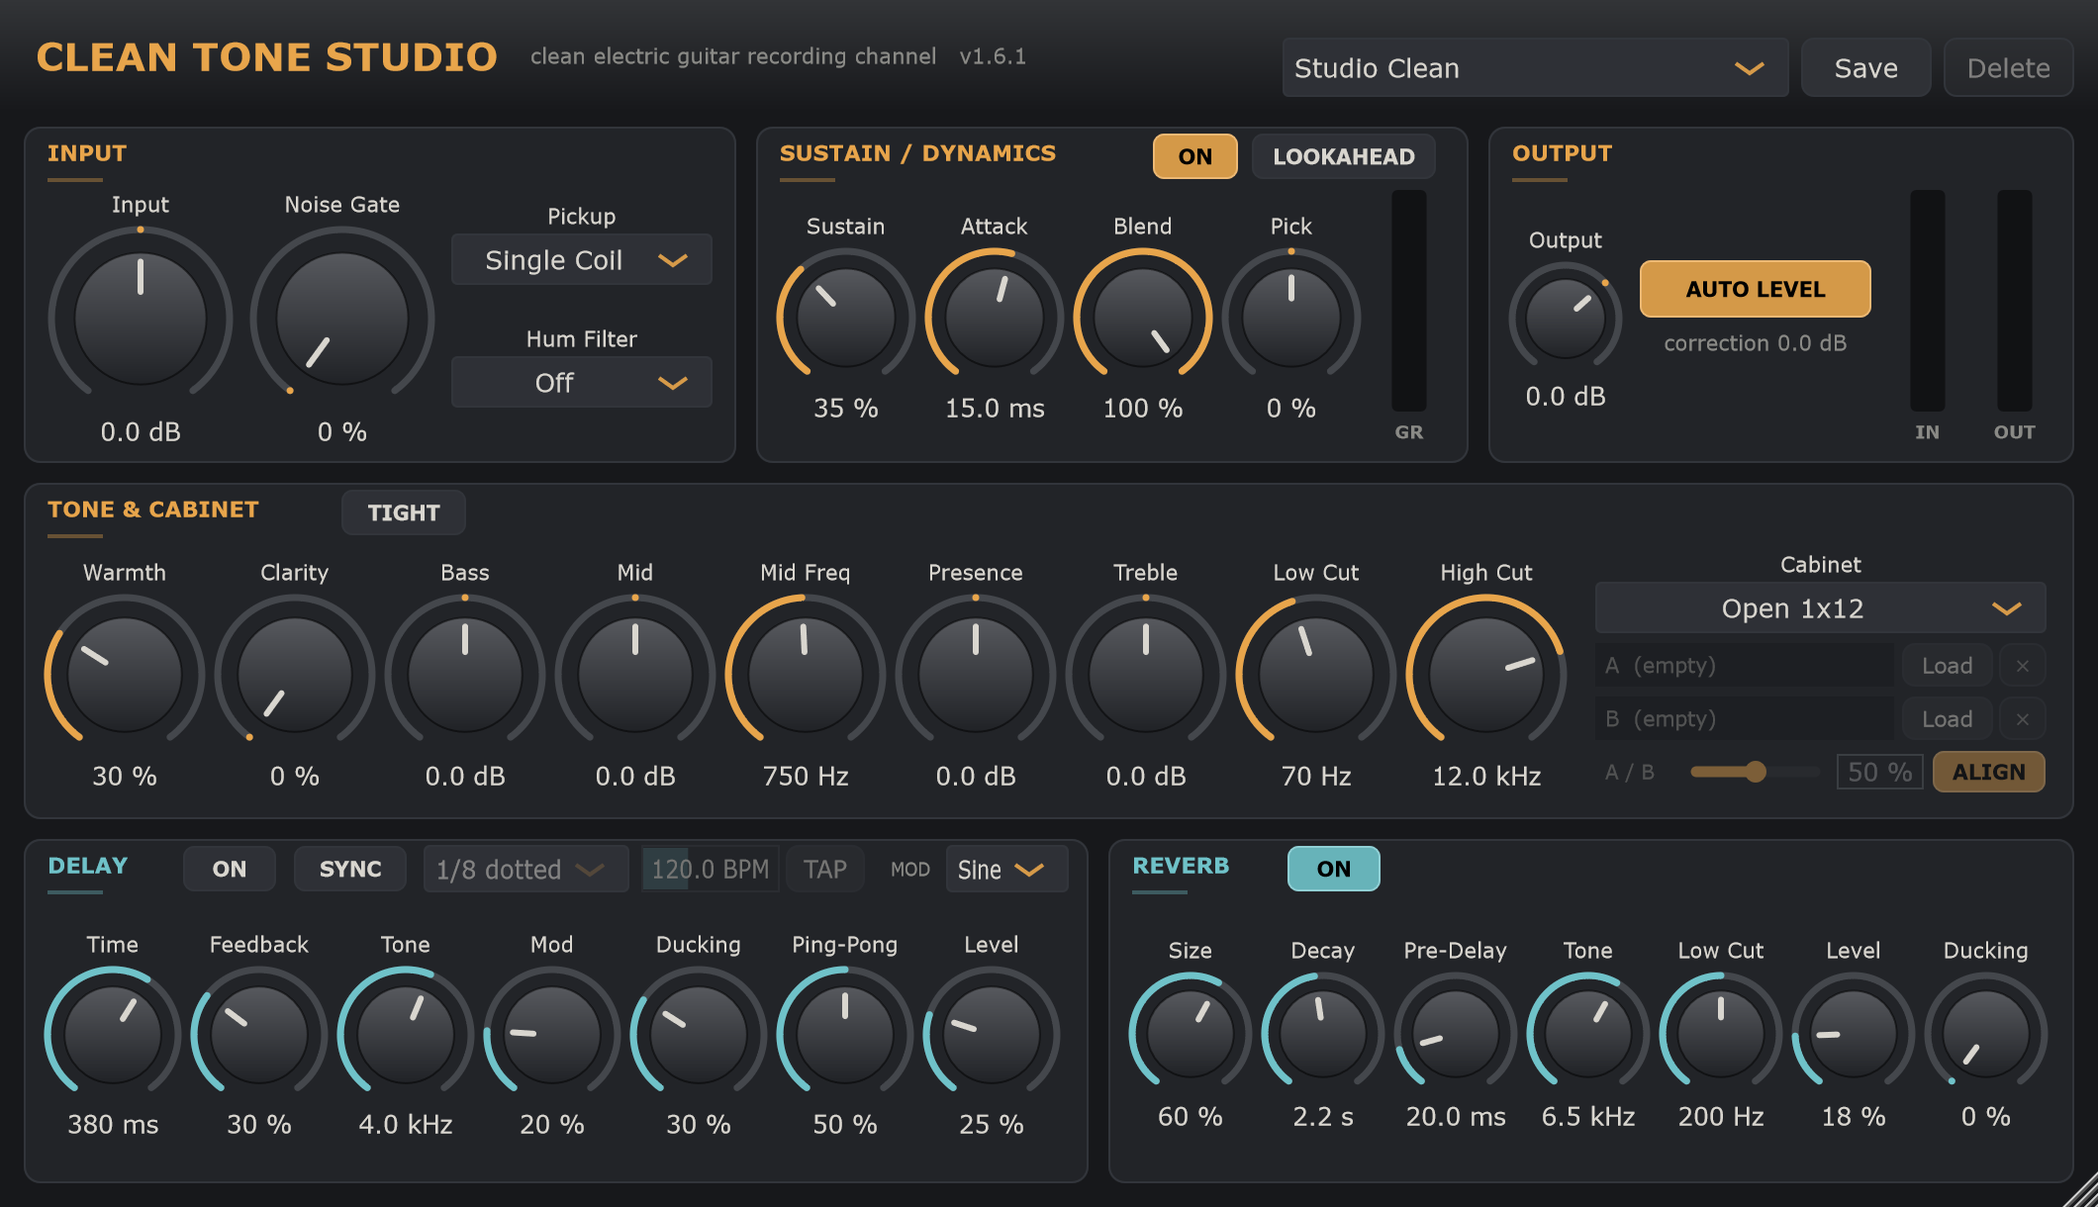
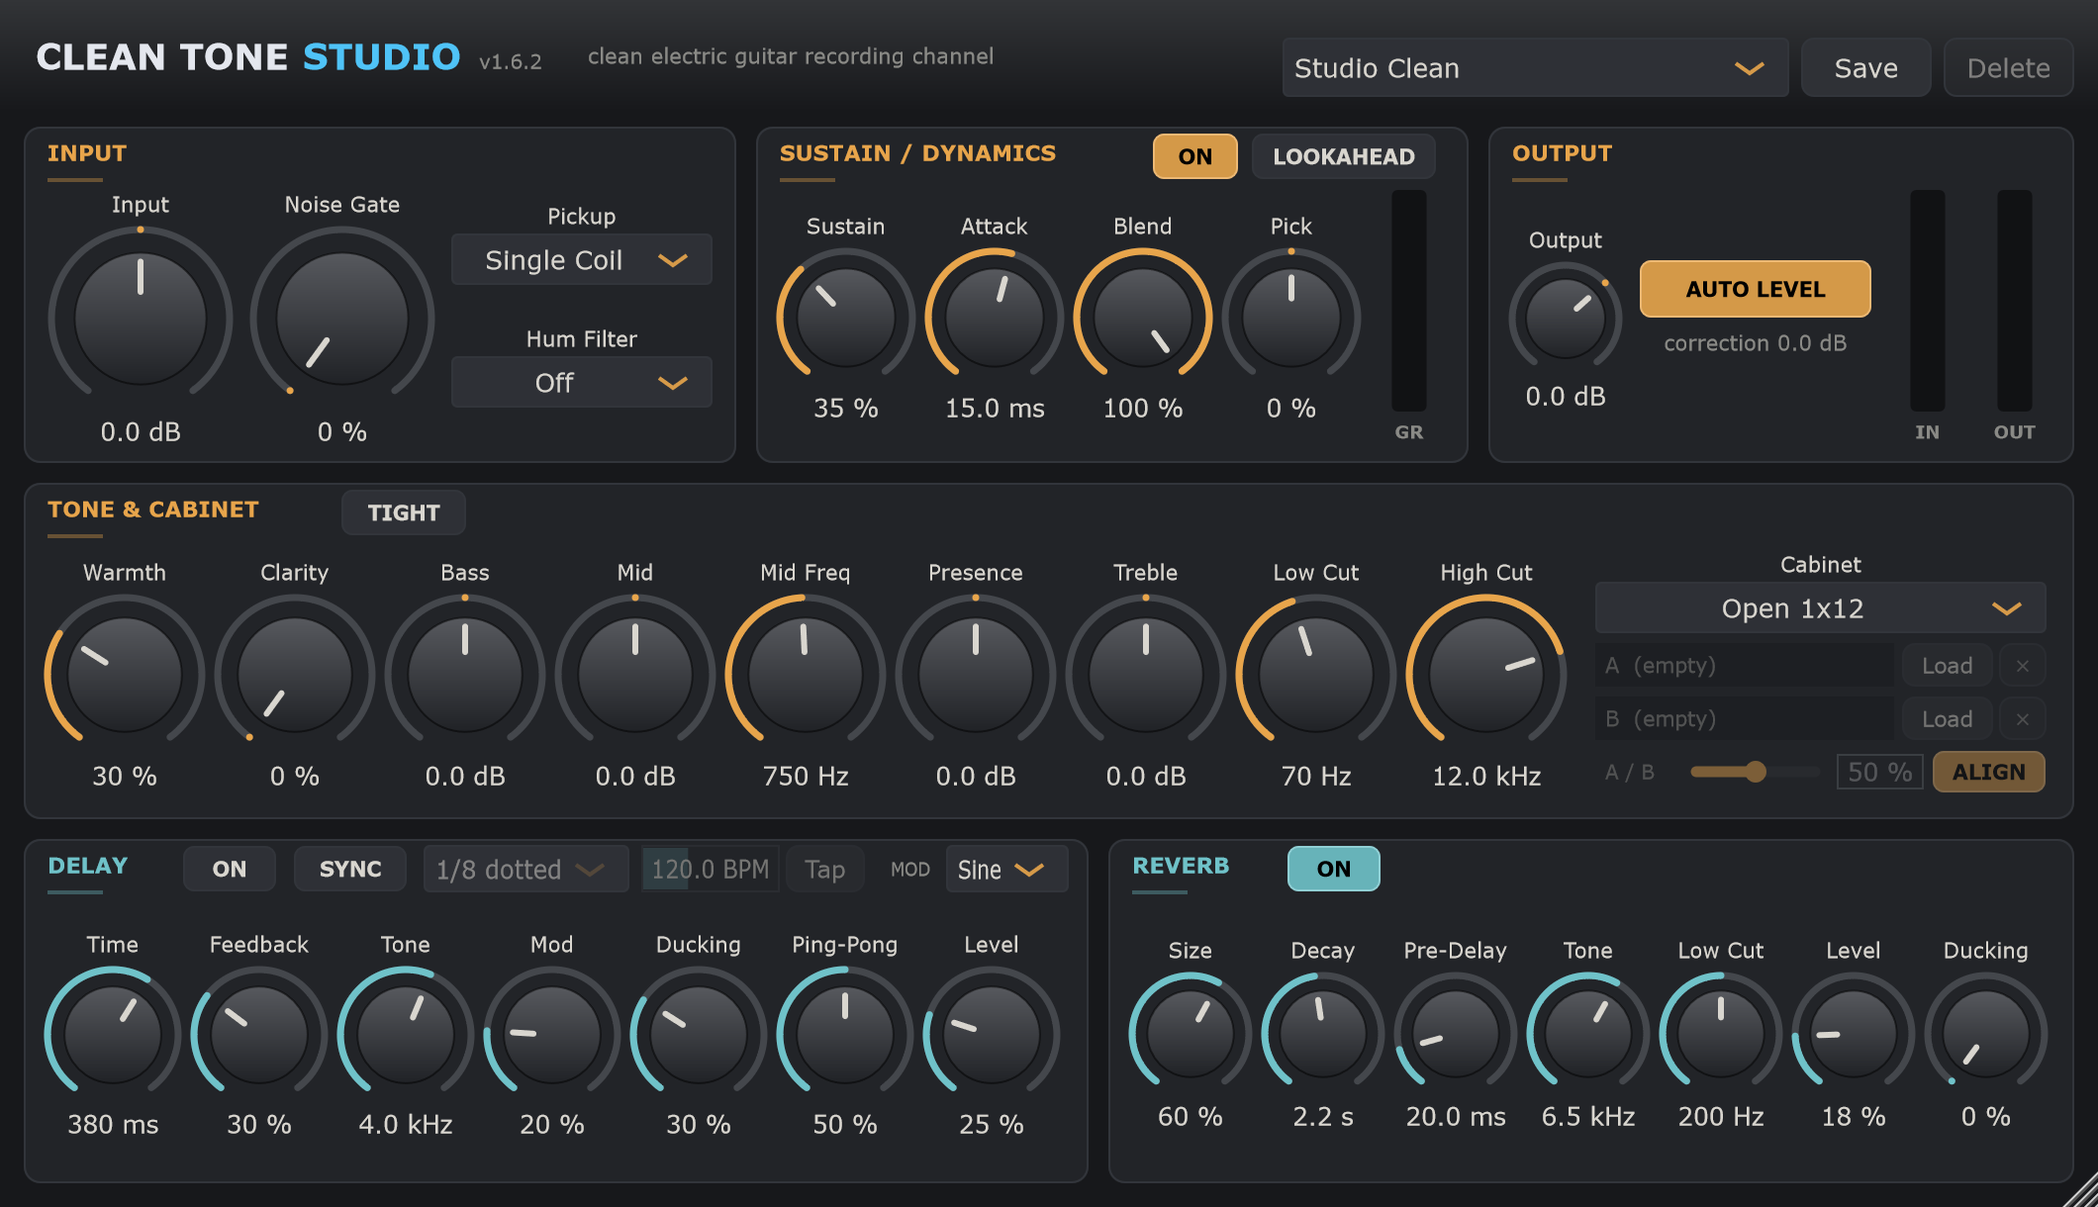
Clean Tone Studio 1.6.2
The look shared with Open Mastering Studio and Open Vocal Studio: CLEAN TONE
in white and STUDIO in blue with the version beside it, and one rule for
button labels (switches in capitals, one-shot actions in title case, so TAP
is now Tap). The source zip now includes docs/ for the README screenshot,
and the measurement report is regenerated. No change to the sound.

Changed region(s): [[0.0, 0.0311, 0.4981, 0.0623], [0.3736, 0.7164, 0.4047, 0.7475]]

diff --git a/Source/PluginEditor.cpp b/Source/PluginEditor.cpp
@@ -450,9 +450,20 @@ CleanToneAudioProcessorEditor::CleanToneAudioProcessorEditor (CleanToneAudioProc
     startTimerHz (30);
 }
 
+// The title, drawn the same way in Clean Tone Studio, Open Vocal Studio and Open Mastering Studio:
+// the name in white with "STUDIO" in blue, 22 px bold, then the version, dim, beside it.
+namespace
+{
+    const float kTitlePx = 22.0f, kVersionPx = 12.0f;
+    Font titleFont()   { return Font (FontOptions (kTitlePx, Font::bold)); }
+    Font versionFont() { return Font (FontOptions (kVersionPx)); }
+    String versionText() { return String ("v") + CTS_VERSION; }
+}
+
 int CleanToneAudioProcessorEditor::titleWidth()
 {
-    return GlyphArrangement::getStringWidthInt (Font (FontOptions (24.0f, Font::bold)), titleText());
+    return GlyphArrangement::getStringWidthInt (titleFont(), titleText()) + 8
+         + GlyphArrangement::getStringWidthInt (versionFont(), versionText());
 }
 
 Rectangle<int> CleanToneAudioProcessorEditor::titleArea() const
@@ -684,7 +695,7 @@ void CleanToneAudioProcessorEditor::timerCallback()
         if (c->getAlpha() != tempoAlpha) c->setAlpha (tempoAlpha);
     {
         const int taps = tapper.getCount (Time::getMillisecondCounterHiRes());
-        const String tapTxt = taps > 0 ? "TAP " + String (taps) : "TAP";
+        const String tapTxt = taps > 0 ? "Tap " + String (taps) : "Tap";
         if (tapButton.getButtonText() != tapTxt) tapButton.setButtonText (tapTxt);
     }
     compLook.setAlpha (compIsOn ? 1.0f : 0.45f);
@@ -730,14 +741,27 @@ void CleanToneAudioProcessorEditor::paintBody (Graphics& g)
     ColourGradient hg (ui::col::panel.brighter (0.08f), 0, 0, ui::col::bg, 0, header.getBottom(), false);
     g.setGradientFill (hg);
     g.fillRect (header);
-    g.setColour (ui::col::accent);
-    g.setFont (FontOptions (24.0f, Font::bold));
-    g.drawText (titleText(), header.reduced (18, 0), Justification::centredLeft);
+    {
+        // "CLEAN TONE " white, "STUDIO" blue, then the version
+        const String name = titleText();
+        const String first = name.upToLastOccurrenceOf (" ", true, false), last = name.fromLastOccurrenceOf (" ", false, false);
+        const int firstW = GlyphArrangement::getStringWidthInt (titleFont(), first);
+        const int lastW = GlyphArrangement::getStringWidthInt (titleFont(), last);
+        const auto t = header.reduced (18, 0);
+        g.setFont (titleFont());
+        g.setColour (ui::col::titleWhite);
+        g.drawText (first, t.withWidth ((float) firstW + 4), Justification::centredLeft);
+        g.setColour (ui::col::studio);
+        g.drawText (last, t.withTrimmedLeft ((float) firstW).withWidth ((float) lastW + 4), Justification::centredLeft);
+        g.setColour (ui::col::dim);
+        g.setFont (versionFont());
+        g.drawText (versionText(), t.withTrimmedLeft ((float) (firstW + lastW + 8)).withWidth (80.0f).translated (0.0f, 3.0f), Justification::centredLeft);
+    }
     if (statusLabel.getText().isEmpty())
     {
         g.setColour (ui::col::dim);
         g.setFont (FontOptions (13.0f));
-        g.drawText (String ("clean electric guitar recording channel   v") + CTS_VERSION, header.reduced (18, 0).withTrimmedLeft (titleWidth() + 16),
+        g.drawText ("clean electric guitar recording channel", header.reduced (18, 0).withTrimmedLeft (titleWidth() + 24),
                     Justification::centredLeft);
     }
 

diff --git a/Source/PluginEditor.h b/Source/PluginEditor.h
@@ -17,6 +17,9 @@ namespace ui
         const juce::Colour accent    { 0xffe8a54b };   // warm amber
         const juce::Colour accent2   { 0xff6fc2c9 };   // cool teal for time effects
         const juce::Colour knob      { 0xff2e3036 };
+        // the title, shared by Clean Tone Studio, Open Vocal Studio and Open Mastering Studio:
+        const juce::Colour titleWhite { 0xffe4e7ee };  // "CLEAN TONE"
+        const juce::Colour studio     { 0xff4fc3f7 };  // "STUDIO"
     }
 
     class LookAndFeel : public juce::LookAndFeel_V4
@@ -96,7 +99,7 @@ private:
     void layoutBody();
     void chooseIR (int slot);
     static juce::String titleText() { return juce::String (CTS_PRODUCT_NAME).toUpperCase(); }
-    static int titleWidth();
+    static int titleWidth();                  // "CLEAN TONE STUDIO v1.6.2", as drawn
     juce::Rectangle<int> titleArea() const;   // click the title: About box (license notice)
 public:
     static juce::String aboutText();           // copyright, license and no-warranty notice
@@ -154,7 +157,7 @@ private:
     // Sync tempo: editable + TAP when the plugin keeps its own tempo (the app), read-only when a DAW sets it
     juce::Slider bpmSlider;
     std::unique_ptr<juce::AudioProcessorValueTreeState::SliderAttachment> bpmAttachment;
-    juce::TextButton tapButton { "TAP" };
+    juce::TextButton tapButton { "Tap" };
     juce::Label hostBpmLabel;
     TapTempo tapper;
     ui::Knob dlyTime, dlyFeedback, dlyTone, dlyMod, dlyDuck, dlyWidth, dlyMix;

diff --git a/Tests/LabMeasurements.cpp b/Tests/LabMeasurements.cpp
@@ -170,7 +170,7 @@ Results run (juce::String& md, bool verbose)
     auto out = [&] (const juce::String& s) { md << s << "\n"; if (verbose) std::cout << s << std::endl; };
 
     out (juce::String ("# ") + CTS_PRODUCT_NAME + " " + CTS_VERSION + " - plugin measurements\n");
-    out ("Measured offline on the whole plugin (mono in, stereo out, left channel analysed), with Auto Level off so levels are "
+    out ("Measured offline on the whole plugin (mono in, stereo out, left channel analyzed), with Auto Level off so levels are "
          "absolute. Unless a row names a preset it starts from the most neutral setting: Flat pickup, compressor off, Warmth 0, "
          "flat EQ, filters wide open, cabinet, gate, delay and reverb off. THD: harmonics 2 and up, relative to the fundamental. "
          "Aliasing: everything that is not DC, the tone or its harmonics (fold-back products plus noise), relative to the tone. "

diff --git a/Tests/BehaviourTest.cpp b/Tests/BehaviourTest.cpp
@@ -1498,7 +1498,7 @@ static void modulesSection()
                     if (pred (ch)) return ch;
             return nullptr;
         };
-        auto isTap = [] (Component* ch) { auto* b = dynamic_cast<TextButton*> (ch); return b != nullptr && b->getButtonText().startsWith ("TAP"); };
+        auto isTap = [] (Component* ch) { auto* b = dynamic_cast<TextButton*> (ch); return b != nullptr && b->getButtonText().startsWith ("Tap"); };
         auto isHostLabel = [] (Component* ch) { auto* l = dynamic_cast<Label*> (ch); return l != nullptr && l->getText().contains ("host"); };
         {
             std::unique_ptr<AudioProcessorEditor> ed (daw.createEditor());

diff --git a/README.md b/README.md
@@ -1,8 +1,10 @@
-# Clean Tone Studio 1.6.1 (VST3 + standalone)
+# Clean Tone Studio 1.6.2 (VST3 + standalone)
 
 A channel strip for Windows for recording clean electric guitar: smooth and detailed, full-bodied, with plenty of sustain, a clean reverb and a smooth delay. Voicings are tuned for both single-coil and humbucker pickups.
 
 ![Clean Tone Studio: the plugin window](docs/screenshot.png)
+
+**Download:** get the latest version from the [Releases](https://github.com/aloomens/clean-tone-studio/releases) page (the program zip, plus the source zip).
 
 ## License: free software (GNU AGPLv3)
 
@@ -16,6 +18,13 @@ Clean Tone Studio is free software, released under the **GNU Affero General Publ
 It is built with JUCE (AGPLv3) and the Steinberg VST3 and ASIO SDKs (both used under GPLv3); see [THIRD-PARTY-NOTICES.txt](THIRD-PARTY-NOTICES.txt). Click the **CLEAN TONE STUDIO** title in the app or plugin to see the license notice.
 
 The source package contains everything needed to build: this folder plus JUCE 8.0.4 and the ASIO SDK under `external/`. Build with Visual Studio 2022 (Build Tools) and CMake, as described under [Building](#building). Unpack it to a short path such as `C:\src`: deep folders push the compiler's working files past Windows' 260-character path limit, and the build fails.
+
+## What's new in 1.6.2
+
+- **A look shared with Open Mastering Studio and Open Vocal Studio.** The title reads CLEAN TONE in white and STUDIO in blue, with the version right after it (the tagline follows). Section titles keep their color and short underline, which the other two now use as well.
+- **Buttons follow one rule in all three:** buttons that stay lit are in capitals (ON, SYNC, LOOKAHEAD, AUTO LEVEL, TIGHT, ALIGN); buttons that do something once are not (Save, Delete, Load). So TAP is now **Tap**.
+- The source zip now includes the `docs` folder, so the README's screenshot shows there too.
+- No change to the sound; presets, projects and app settings are where they were.
 
 ## What's new in 1.6.1
 
@@ -160,7 +169,7 @@ Put it on a **mono** guitar track. It accepts mono and outputs stereo, so the de
 | **Input** | Input, Noise Gate, Pickup, Hum Filter | **Pickup** picks a corrective voicing and sets the level so both pickup types drive the compressor the same way. *Single Coil* adds low-mid body, softens the 3.3 kHz "ice-pick" and smooths the top end. *Humbucker* clears out mud around 320 Hz and opens up detail around 2.6 kHz and above 6 kHz. *Flat* leaves the signal unchanged. **Hum Filter** puts narrow notches on the 50 Hz or 60 Hz mains hum and its harmonics, which helps with single coils. **Noise Gate** keeps hiss down when Sustain is high. It opens instantly, holds for 35 ms and has 6 dB of hysteresis, so notes fading through the threshold close it once and smoothly, without buzzing or stuttering. |
 | **Sustain / Dynamics** | ON, LOOKAHEAD, Sustain, Attack, Blend, Pick, GR meter | Smooth optical-style compressor with RMS detection through a 100 Hz sidechain high-pass (low notes don't over-compress), a soft knee and a two-stage release: it slows down the harder it compresses, and after sustained playing a slow "memory" stage lets go gently. **LOOKAHEAD** lets it see pick attacks 3 ms early (adds 3 ms latency, reported to the host). **Pick** brings each note's attack forward (+) or softens it (−) without touching the rest of the note. **Sustain** raises the compression and the automatic make-up gain together, so notes ring longer without a jump in volume. A longer **Attack** lets more of the pick attack through. **Blend** mixes in the uncompressed signal (parallel compression) for more detail. **ON** switches the compressor off when you already use a hardware compressor before your interface. It fades over about 50 ms, so it never clicks. Auto Level keeps the volume the same either way. Because it depends on your hardware rather than the sound, presets (factory and your own) leave it where you set it. |
 | **Tone & Cabinet** | Warmth, TIGHT, Clarity, Bass, Mid, Mid Freq, Presence, Treble, Low Cut, High Cut, Cabinet, IR A / B, A / B blend, ALIGN | **Warmth** is a tube-style stage: mostly even-harmonic saturation for fullness, stronger on low notes than high ones, with a bias that breathes with your picking. It is 4× oversampled and anti-aliased, and level-matched at low levels. The bottom 10 % of the knob fades it in, so 0 % is completely clean. **TIGHT** keeps the deep lows out of it. **Clarity** trims the muddy low mids (around 300 Hz) only when they build up. **Cabinet** offers filter-based speaker voicings (Open 1x12, Classic 2x12, Closed 4x12), **IR Loader** for your own impulse responses (two slots with a blend, zero latency, saved with the project and your presets), or **Off (DI)**. **ALIGN** (on by default) makes each IR start at once and lets two IRs blend without the low end cancelling, keeping each IR's frequency response exactly. |
-| **Delay** | On, Sync, division, Time, Feedback, Tone, Mod, Ducking, Ping-Pong, Level | Repeats get progressively darker. Changing the time makes the delay glide like tape instead of clicking; the glide speeds up and slows down smoothly and never bends the pitch more than 40 %. **Mod** adds subtle modulation, in one of two styles: **Sine** (a smooth, even sway) or **Tape** (slow irregular wow, flutter and gentle tape softening). **Ducking** pulls the repeats down while you play and lets them bloom when you stop. **Sync** follows the host tempo in a DAW (shown read-only next to the division menu). In the standalone app it uses the **Tempo** control, set by dragging, typing or **TAP**. |
+| **Delay** | On, Sync, division, Time, Feedback, Tone, Mod, Ducking, Ping-Pong, Level | Repeats get progressively darker. Changing the time makes the delay glide like tape instead of clicking; the glide speeds up and slows down smoothly and never bends the pitch more than 40 %. **Mod** adds subtle modulation, in one of two styles: **Sine** (a smooth, even sway) or **Tape** (slow irregular wow, flutter and gentle tape softening). **Ducking** pulls the repeats down while you play and lets them bloom when you stop. **Sync** follows the host tempo in a DAW (shown read-only next to the division menu). In the standalone app it uses the **Tempo** control, set by dragging, typing or **Tap**. |
 | **Reverb** | On, Size, Decay, Pre-Delay, Tone, Low Cut, Level, Ducking | Early reflections followed by a diffuse network of 16 delay lines with slow modulation, so the tail is smooth and dense without metallic ringing. **Decay** is the measured decay time of the low end; above the **Tone** frequency it decays about four times faster. **Ducking** pulls the reverb back while you play and lets it bloom when you stop. **Low Cut** (200 Hz by default) keeps the low end of the reverb from getting muddy. |
 | **Output** | Output, Auto Level, IN/OUT meters | **Auto Level** (on by default) keeps the output as loud as the input whenever you change presets or settings, so you can compare tones without louder automatically sounding better. The readout shows the correction it is applying. **Output** is the only control that changes the final level. Changing presets leaves Output and Auto Level where you set them. |
 
@@ -234,7 +243,7 @@ It writes a WAV file for each preset to `test-output\`.
 5. **Click scan**: all 234 parameter moves (every switch both ways, every choice to every other choice, every control) with every module running.
 6. **Measurements**: latency exactness, gate transparency, neutral flatness, silence and CPU, with limits.
 7. **THE_LAB replicas**: no memory allocation in `processBlock` (counted), buffer sizes 64 / uneven / 8192 / 0-sample with Auto Level on, two copies side by side, state loaded back into the same copy, one copy run twice and after much louder material, every continuous control at 0 % and 100 % then back on one copy, bit-identical stereo paths, and the 10 kHz high-note spur test.
-8. **1.4 modules**: convolution versus exact convolution at 44.1 / 48 / 96 kHz; the IR Loader at different buffer sizes, in projects, presets and pre-1.4 projects; IR changes while playing (no allocation, no clicks); reverb decay time at low and high frequencies; compressor sidechain and two-stage release; lookahead latency; Tape modulation; Warmth's frequency dependence; and the window (opens at full size, scales, maximize button in the app). Since 1.4.1 and 1.5 it also covers ALIGN, Auto Level across sample rates, the delay Tempo and TAP, and Clarity, Pick, TIGHT and reverb Ducking each doing what they say.
+8. **1.4 modules**: convolution versus exact convolution at 44.1 / 48 / 96 kHz; the IR Loader at different buffer sizes, in projects, presets and pre-1.4 projects; IR changes while playing (no allocation, no clicks); reverb decay time at low and high frequencies; compressor sidechain and two-stage release; lookahead latency; Tape modulation; Warmth's frequency dependence; and the window (opens at full size, scales, maximize button in the app). Since 1.4.1 and 1.5 it also covers ALIGN, Auto Level across sample rates, the delay Tempo and Tap, and Clarity, Pick, TIGHT and reverb Ducking each doing what they say.
 
 Sections 2–4 run at 44.1, 48 and 96 kHz.
 

diff --git a/Reports/measurements.md b/Reports/measurements.md
@@ -1,6 +1,6 @@
-# Clean Tone Studio 1.5.0 - plugin measurements
+# Clean Tone Studio 1.6.2 - plugin measurements
 
-Measured offline on the whole plugin (mono in, stereo out, left channel analysed), with Auto Level off so levels are absolute. Unless a row names a preset it starts from the most neutral setting: Flat pickup, compressor off, Warmth 0, flat EQ, filters wide open, cabinet, gate, delay and reverb off. THD: harmonics 2 and up, relative to the fundamental. Aliasing: everything that is not DC, the tone or its harmonics (fold-back products plus noise), relative to the tone. Lower is better throughout. A typical DI guitar peaks around -12 dBFS.
+Measured offline on the whole plugin (mono in, stereo out, left channel analyzed), with Auto Level off so levels are absolute. Unless a row names a preset it starts from the most neutral setting: Flat pickup, compressor off, Warmth 0, flat EQ, filters wide open, cabinet, gate, delay and reverb off. THD: harmonics 2 and up, relative to the fundamental. Aliasing: everything that is not DC, the tone or its harmonics (fold-back products plus noise), relative to the tone. Lower is better throughout. A typical DI guitar peaks around -12 dBFS.
 
 ## Harmonic distortion (THD) at 110 Hz (low A string)
 
@@ -96,16 +96,16 @@ Every delay line has a calibrated absorption filter, so the lows ring for the ti
 |---|---|---|
 | Noise gate | 0.02 % | 0.03 % |
 | Pickup voicing | 0.03 % | 0.05 % |
-| Sustain compressor | 0.15 % | 0.29 % |
-| Warmth (4x oversampled) | 0.86 % | 1.73 % |
+| Sustain compressor | 0.14 % | 0.29 % |
+| Warmth (4x oversampled) | 0.88 % | 1.82 % |
 | Tone stack | 0.05 % | 0.10 % |
 | Cabinet | 0.05 % | 0.10 % |
-| Delay (stereo) | 0.32 % | 0.64 % |
-| Reverb (stereo) | 1.44 % | 2.93 % |
-| IR loader (two 0.3 s IRs blended, stereo) | 2.26 % | 5.31 % |
+| Delay (stereo) | 0.32 % | 0.63 % |
+| Reverb (stereo) | 1.46 % | 2.93 % |
+| IR loader (two 0.3 s IRs blended, stereo) | 2.27 % | 5.19 % |
 | Clarity (dynamic low-mid cut, 100 %) | 0.07 % | 0.13 % |
-| Pick (transient shaper, +100 %) | 0.40 % | 0.81 % |
-| Whole plugin (processBlock, Ambient Swell: everything on) | 3.00 % | 6.09 % |
-| Auto Level measurement, per new setting (total ms, spread over ~0.5 s of audio) | 90.33 ms | 184.64 ms |
+| Pick (transient shaper, +100 %) | 0.40 % | 0.80 % |
+| Whole plugin (processBlock, Ambient Swell: everything on) | 3.03 % | 6.08 % |
+| Auto Level measurement, per new setting (total ms, spread over ~0.5 s of audio) | 89.09 ms | 182.74 ms |
 
 Switched-off delay and reverb rest completely once faded out. The compressor's detector keeps running while it's switched off so it can come back in at exactly the right level.
